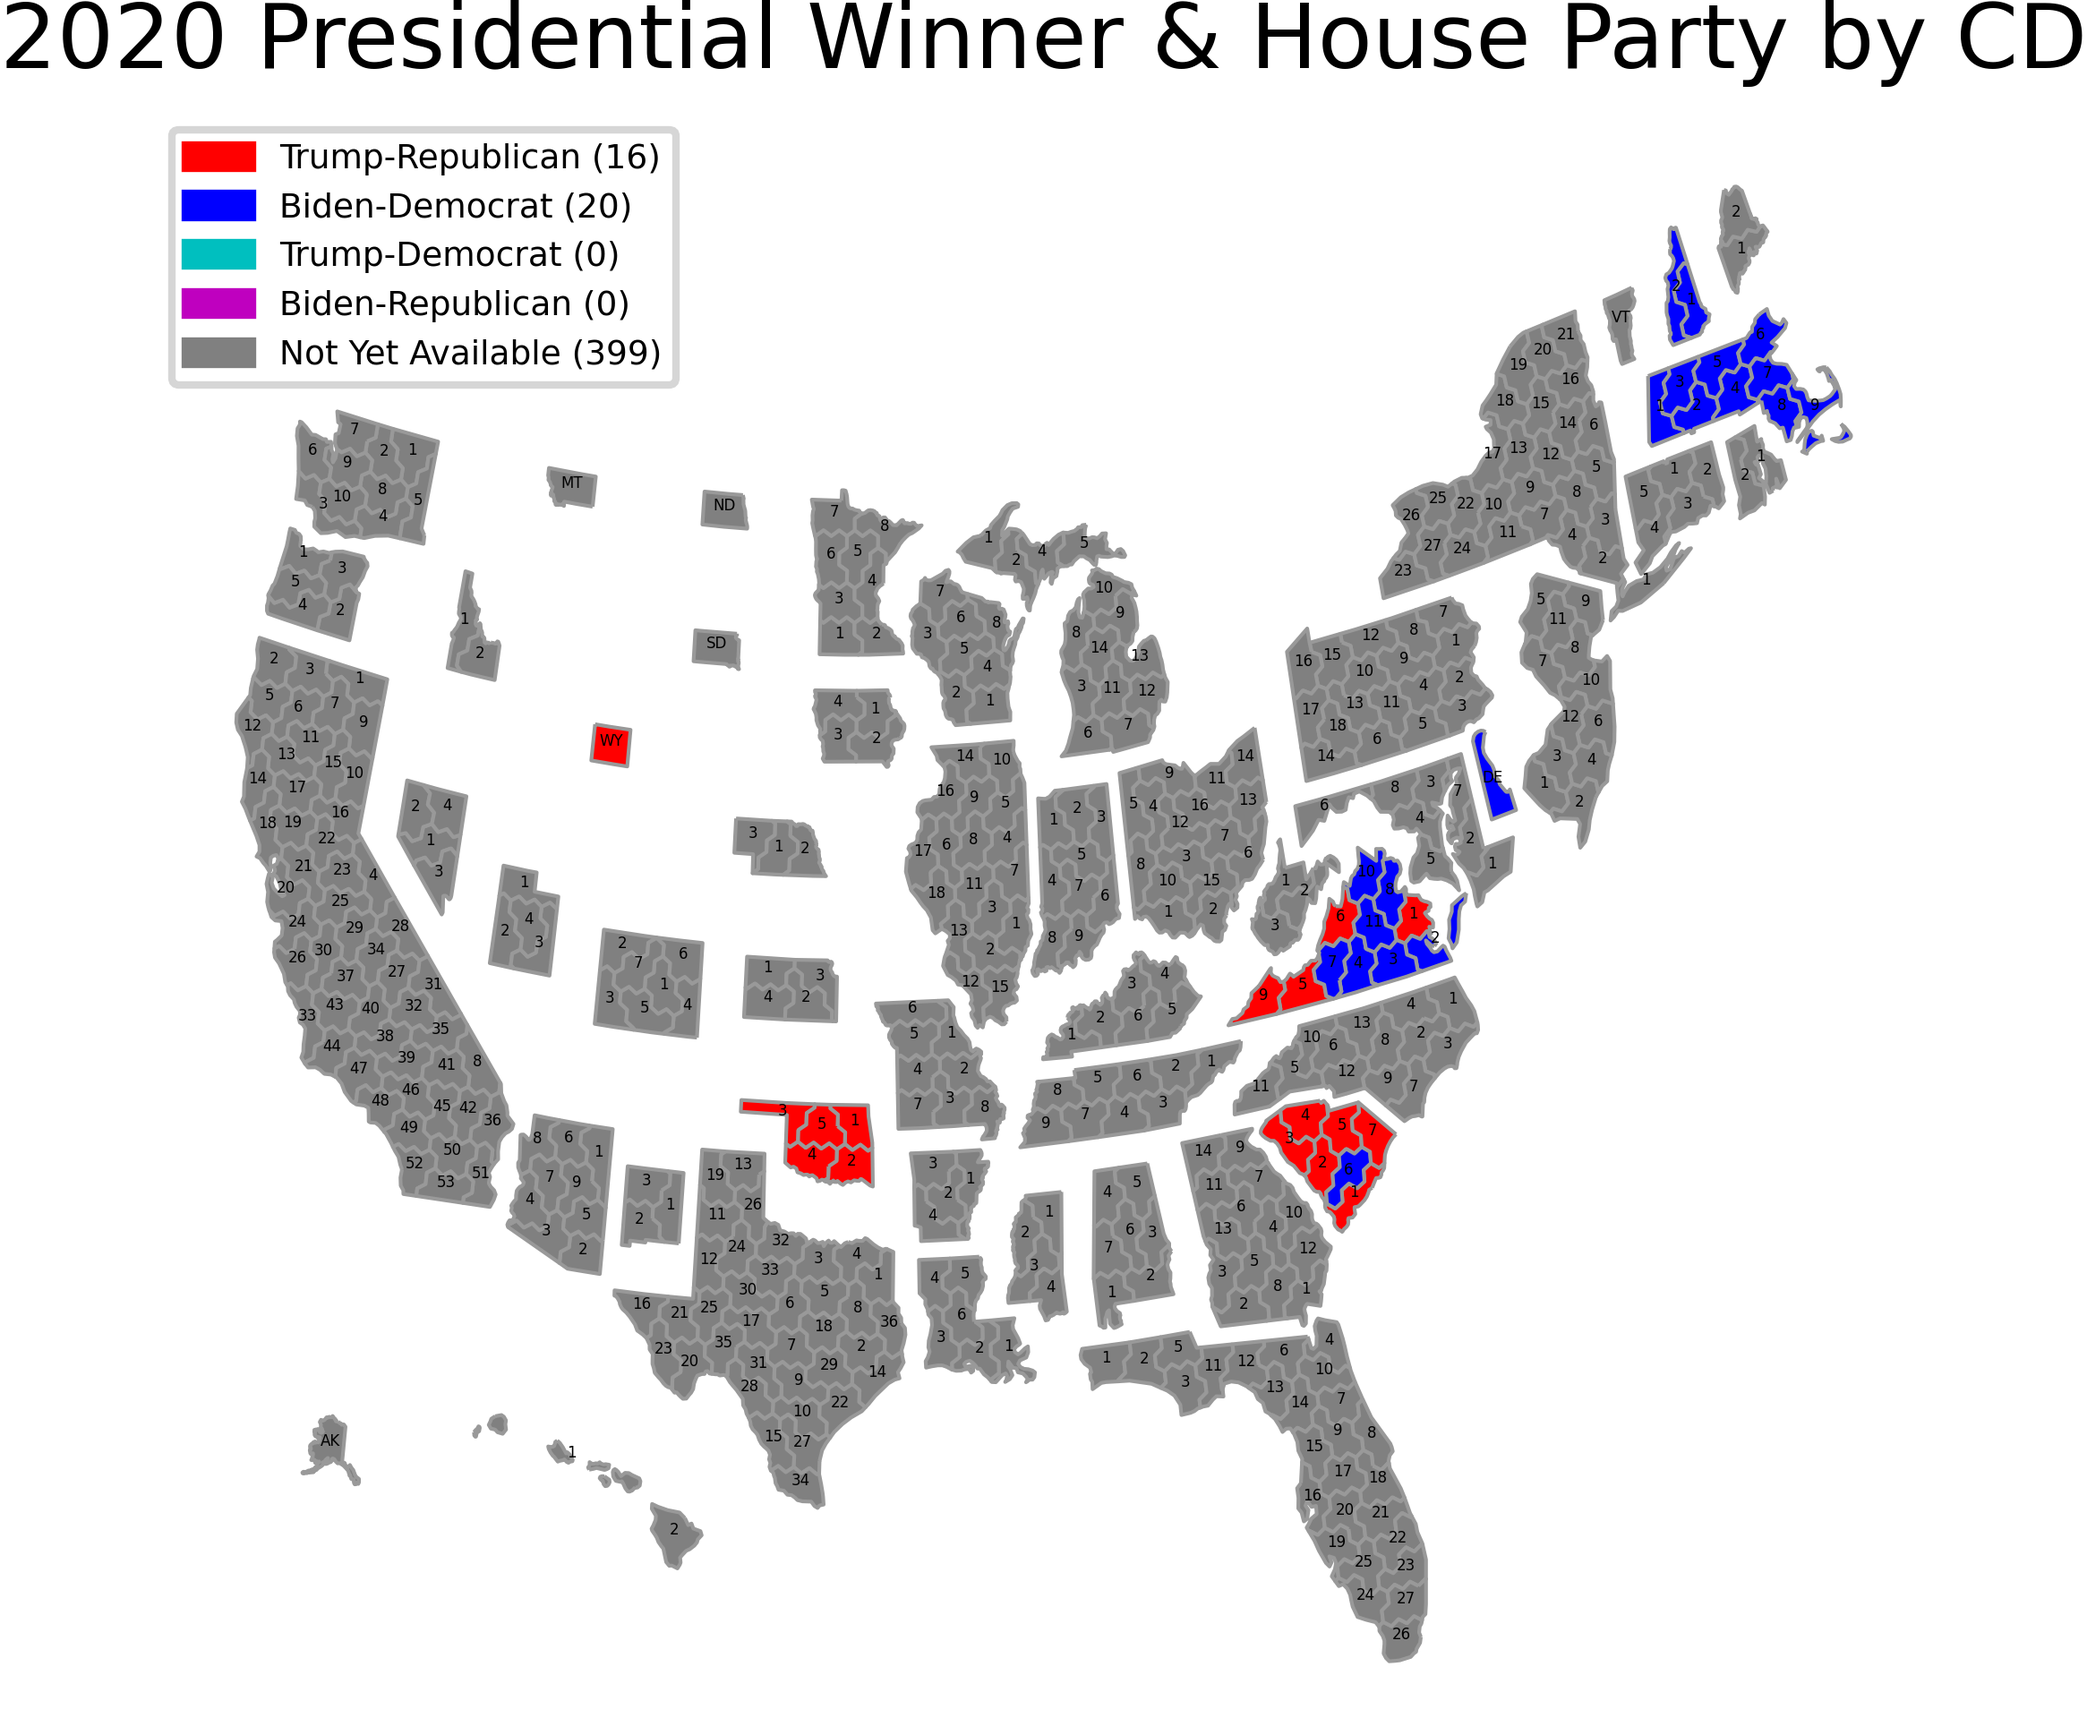
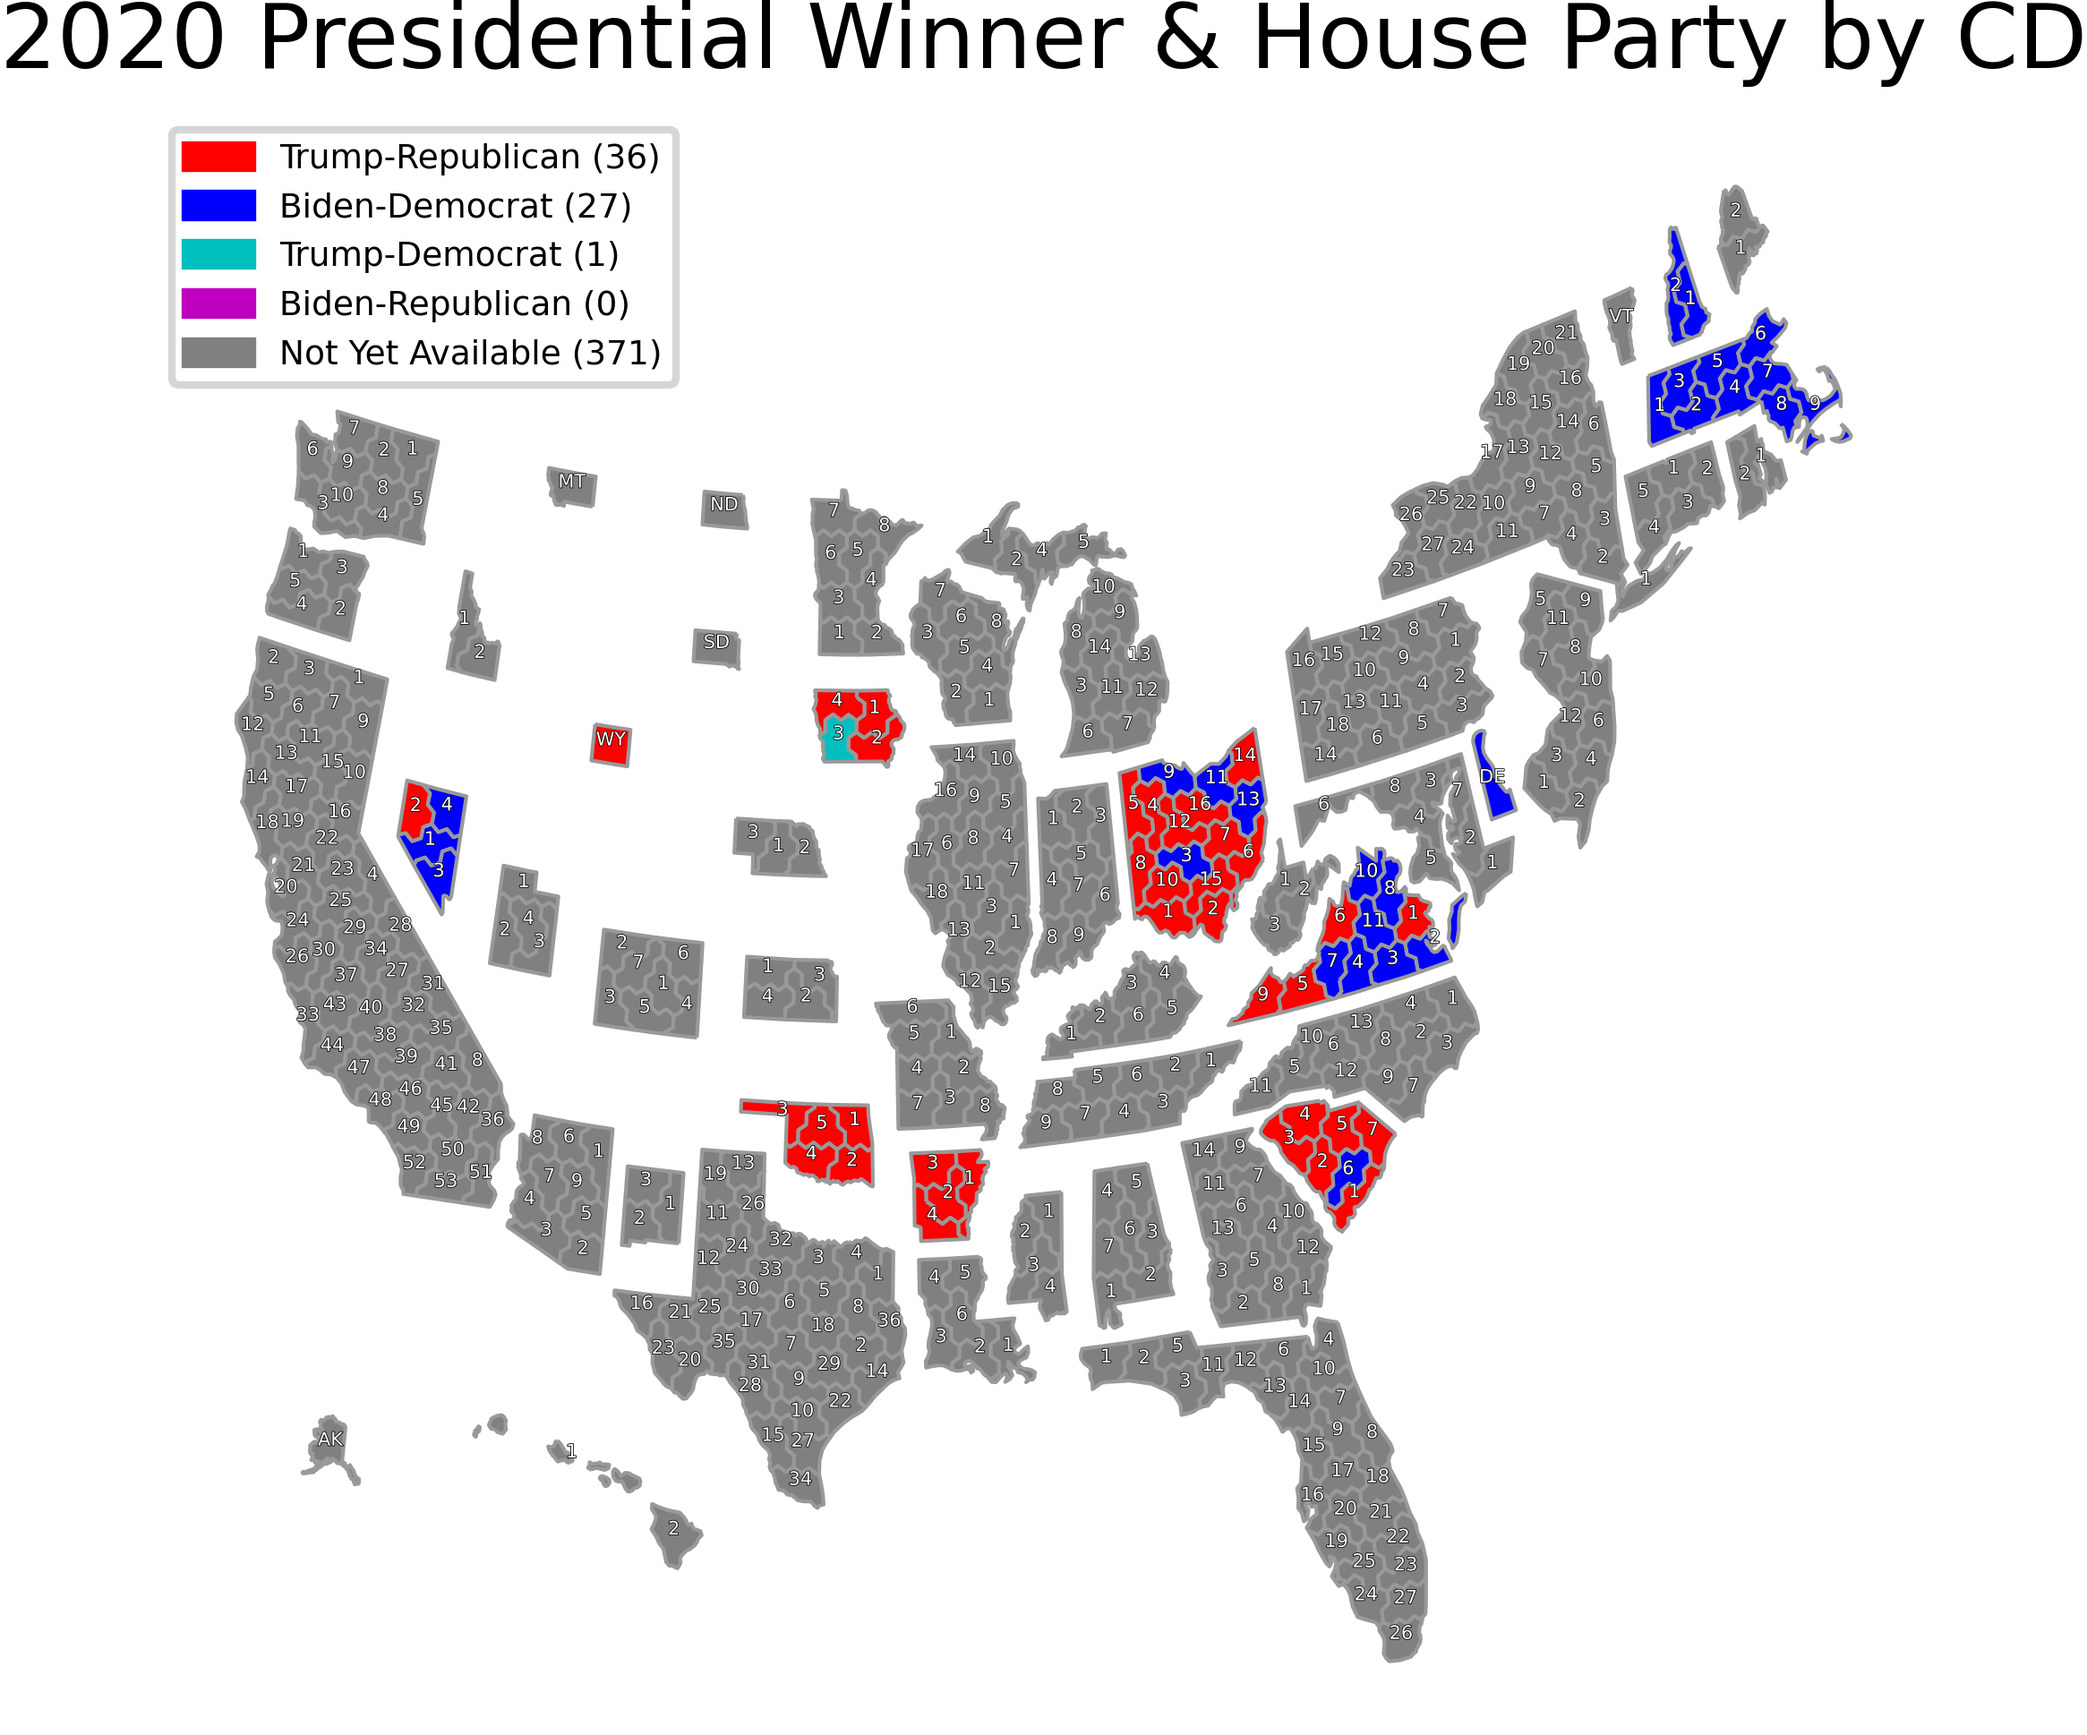
Add files via upload

diff --git a/questions/60234/main.py b/questions/60234/main.py
@@ -1,6 +1,7 @@
 import pandas as pd
 import matplotlib.pyplot as plt
 import matplotlib.patches as mpatches
+import matplotlib.patheffects as pe
 import geopandas as gpd
 import urllib.request, json
 
@@ -25,6 +26,8 @@ pres_df["pres_winner"] = pres_df.apply(
     else "uncalled",
     axis=1,
 )
+
+print(len(pres_df[~pd.isnull(pres_df['Biden'])].reset_index(drop=True)))
 
 # Read house results from NYT source
 with urllib.request.urlopen(
@@ -101,8 +104,8 @@ ax.legend(
 )
 
 map_merged.apply(
-    lambda x: ax.annotate(
-        text=x["CDLABEL"], xy=x.geometry.centroid.coords[0], ha="center", fontsize=2
+    lambda x: ax.text(
+        x.geometry.centroid.coords[0][0], x.geometry.centroid.coords[0][1], x["CDLABEL"], ha="center", fontsize=2.5, color='w', path_effects=[pe.withStroke(linewidth=0.2, foreground="black")]
     ),
     axis=1,
 )
